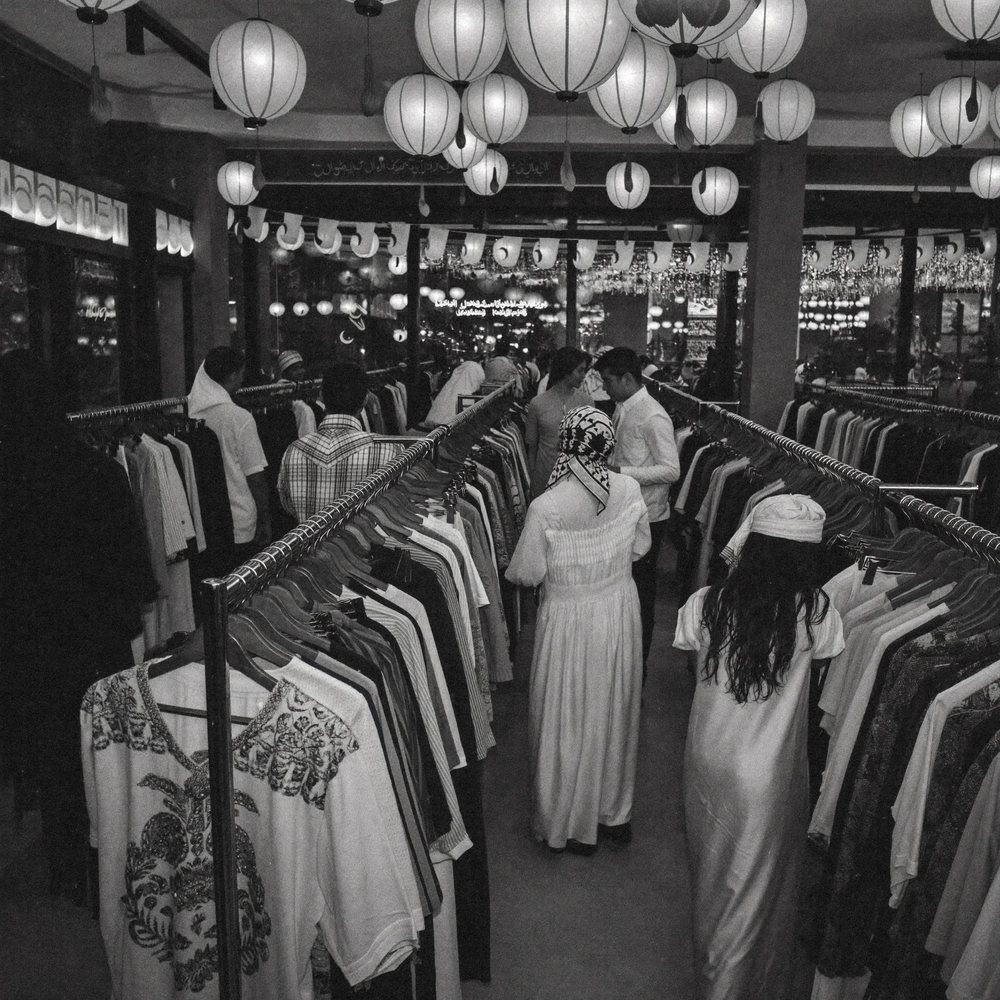
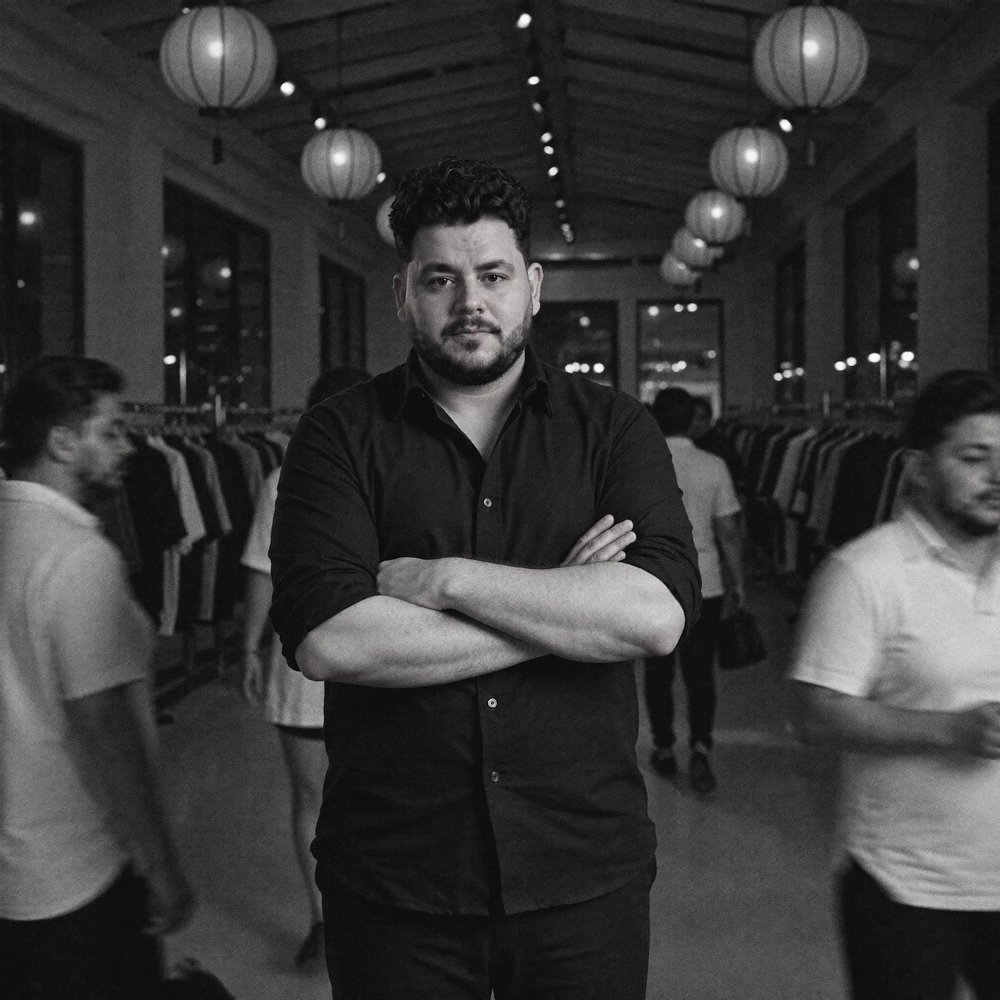
Result card covers featuring Youssef

diff --git a/index.html b/index.html
@@ -377,6 +377,9 @@ nav a[aria-current="page"]{text-decoration:underline;text-underline-offset:6px;t
 .shot.has-img{background-size:cover;background-position:center}
 .shot.has-img .tag{color:#fff;font-weight:600;text-shadow:0 1px 6px rgba(0,0,0,.6)}
 .shot.has-img .num,.shot.has-img .unit{text-shadow:0 2px 14px rgba(0,0,0,.7)}
+
+/* ===== v15: covers with Youssef ===== */
+.shot.has-img{background-position:center top}
 </style>
 
 <div class="page" dir="rtl" lang="ar">
@@ -481,17 +484,17 @@ nav a[aria-current="page"]{text-decoration:underline;text-underline-offset:6px;t
   </div>
   <div class="cases-grid">
     <article class="pola">
-      <div class="shot has-img" style="background-image:linear-gradient(180deg,rgba(0,0,0,.30),rgba(0,0,0,.82)),url(cases/mercato.jpg)"><span class="tag">ميركاتو</span><div><div class="num">48M</div><div class="unit">ريال مبيعات الفترة</div></div></div>
+      <div class="shot has-img" style="background-image:linear-gradient(180deg,rgba(0,0,0,.10) 35%,rgba(0,0,0,.86)),url(cases/mercato.jpg?v=2)"><span class="tag">ميركاتو</span><div><div class="num">48M</div><div class="unit">ريال مبيعات الفترة</div></div></div>
       <h3>موسم رمضان على شبكة فروع كاملة</h3>
       <p>صرف تسويقي 1.3 مليون ريال وحملة واحدة متسقة على كل الفروع. دوري: قيادة التسويق.</p>
     </article>
     <article class="pola">
-      <div class="shot has-img" style="background-image:linear-gradient(180deg,rgba(0,0,0,.20),rgba(0,0,0,.80)),url(cases/mercedes.jpg)"><span class="tag">مرسيدس</span><div><div class="num red">32.8×</div><div class="unit">عائد على الصرف الإعلاني</div></div></div>
+      <div class="shot has-img" style="background-image:linear-gradient(180deg,rgba(0,0,0,.10) 35%,rgba(0,0,0,.86)),url(cases/mercedes.jpg?v=2)"><span class="tag">مرسيدس</span><div><div class="num red">32.8×</div><div class="unit">عائد على الصرف الإعلاني</div></div></div>
       <h3>إطلاق سيارة بمعايير براند فاخر</h3>
       <p>ميزانية حملة حوالي 2.7 مليون دولار. دوري: استشاري الحملة ومراجعة الأداء.</p>
     </article>
     <article class="pola">
-      <div class="shot has-img" style="background-image:linear-gradient(180deg,rgba(0,0,0,.30),rgba(0,0,0,.84)),url(cases/estate.jpg)"><span class="tag">عقارات</span><div><div class="num">2.5×</div><div class="unit">تحويل، من 0.8% لحوالي 2%</div></div></div>
+      <div class="shot has-img" style="background-image:linear-gradient(180deg,rgba(0,0,0,.10) 35%,rgba(0,0,0,.86)),url(cases/estate.jpg?v=2)"><span class="tag">عقارات</span><div><div class="num">2.5×</div><div class="unit">تحويل، من 0.8% لحوالي 2%</div></div></div>
       <h3>مبيعات أكتر من غير زيادة في الإعلانات</h3>
       <p>صلحنا الرد والتأهيل والمعاينات. دوري: إعادة بناء رحلة العميل مع المبيعات.</p>
     </article>
